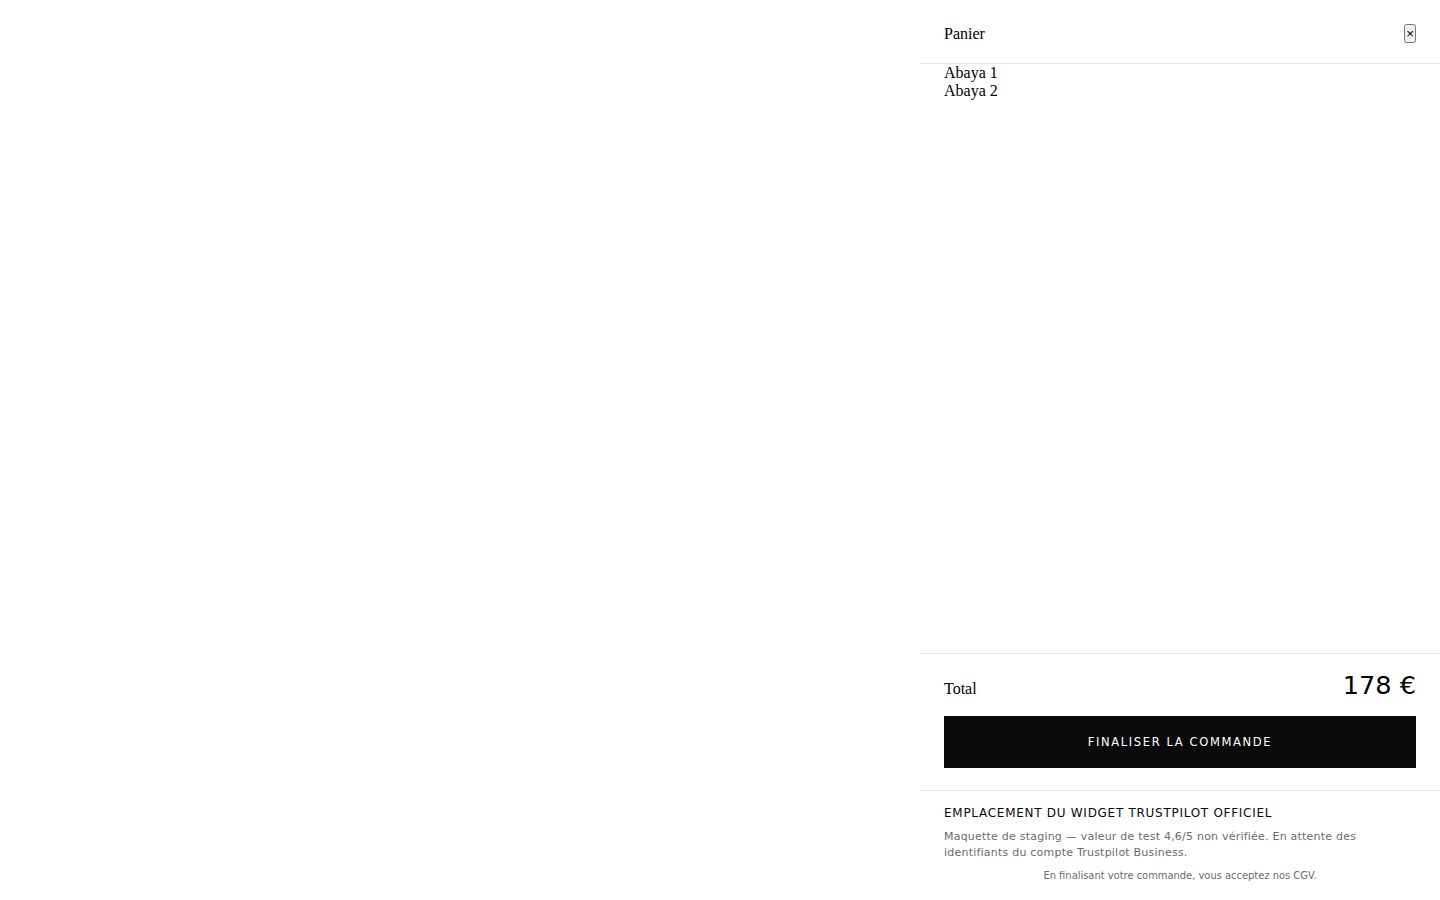
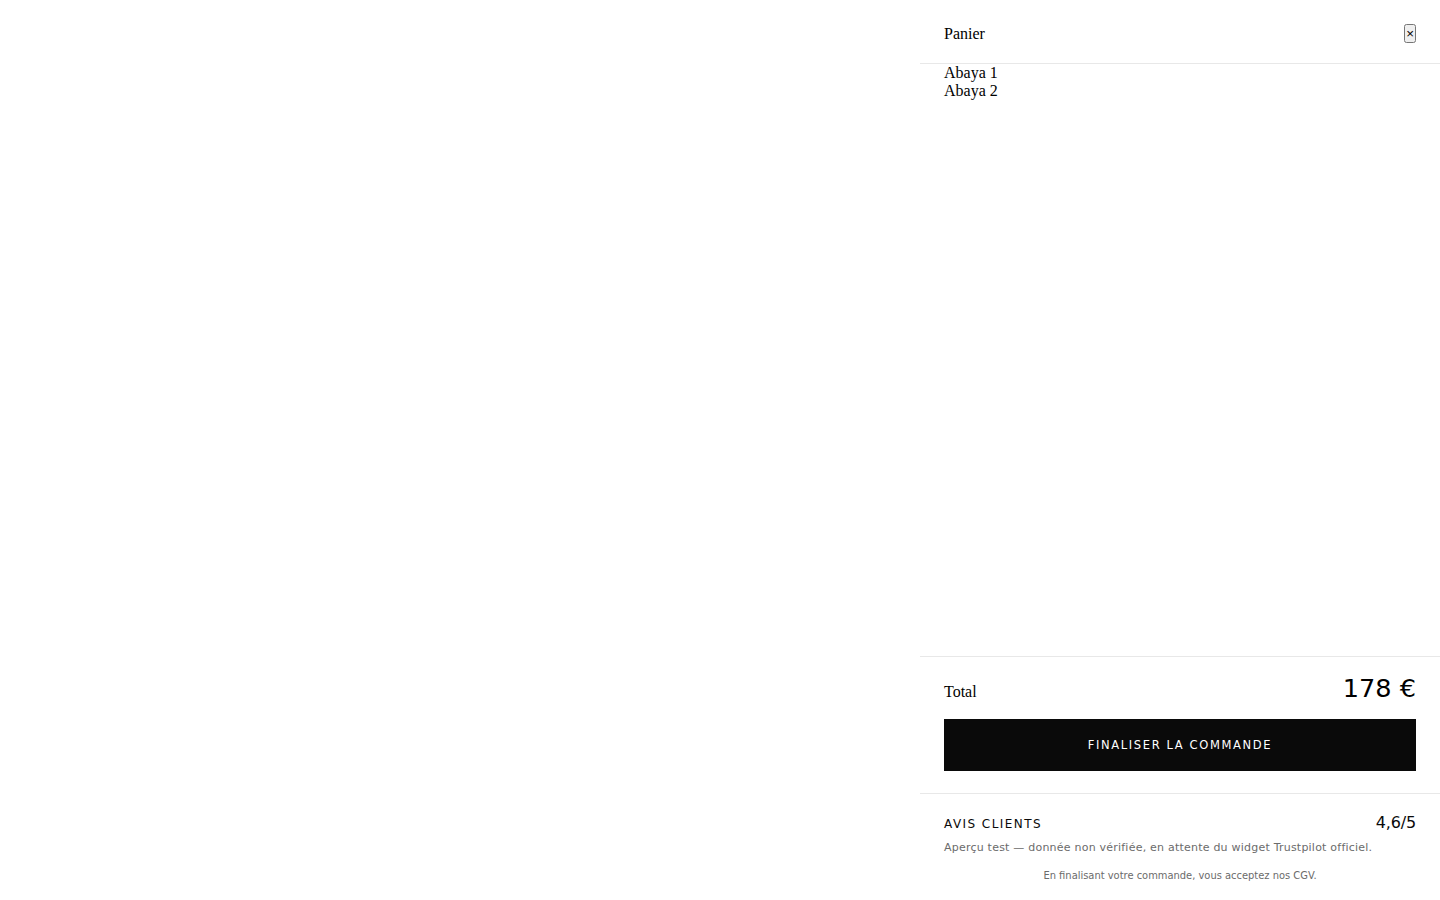
Maquette staging : bloc de réassurance visible avec la note 4,6/5
Le bloc de staging passait pour un chantier ("emplacement réservé").
Il devient un composant fini, affiché dans le bas du cart drawer sous
le bouton de paiement : libellé AVIS CLIENTS à gauche, 4,6/5 à droite,
mention "Aperçu test — donnée non vérifiée" dessous.

Identité Maison Ayla stricte : blanc, #0A0A0A, #6B6B6B, Jost, aucun
arrondi décoratif, aucune ombre. Toujours aucun logo, wordmark, étoile
ni vert Trustpilot reconstruits — le rendu de marque reste réservé à la
TrustBox officielle, conformément au critère d'acceptation n°1 du brief.

Le score reste piloté par le seul assign trustpilot_test_score du
snippet de configuration, et les deux verrous de publication sont
inchangés : le bloc ne peut pas s'afficher sur un thème publié.

Documenté en plus : le profil Trustpilot public de Maison Ayla existe,
et deux façons d'en extraire le businessunit-id en moins d'une minute.
Trustpilot n'est pas joignable depuis l'environnement d'exécution
(403 anti-robot), d'où l'impossibilité de relever le score réel ici.

60/60 contrôles Playwright rejoués après modification.

Claude-Session: https://claude.ai/code/session_01V2DRE9mqg9khsv4wi2sKrS

Changed region(s): [[0.6562, 0.7467, 1.0, 0.8711], [0.6562, 0.9022, 1.0, 0.9644]]

diff --git a/shopify/maison-ayla-cro-live/assets/ma-cro-trustpilot.js b/shopify/maison-ayla-cro-live/assets/ma-cro-trustpilot.js
@@ -73,26 +73,35 @@
       return block;
     }
 
-    /* Emplacement réservé de maquette : aucun logo, aucune étoile,
-       aucune couleur de marque, aucune note présentée comme réelle. */
-    block.dataset.maTpMode = 'placeholder';
-    block.classList.add('ma-cro-tp--placeholder');
-    block.setAttribute('aria-label', 'Emplacement réservé au widget Trustpilot officiel, maquette non publiée');
+    /* Maquette de staging : bloc de réassurance à l'identité Maison Ayla.
+       Aucun logo, aucun wordmark, aucune étoile, aucune couleur de marque
+       Trustpilot ne sont reconstruits — cette maquette valide le gabarit
+       et la hiérarchie, pas le rendu de marque. */
+    block.dataset.maTpMode = 'mock';
+    block.classList.add('ma-cro-tp--mock');
+    block.setAttribute('aria-label', 'Aperçu de maquette non publié, note de test non vérifiée');
 
     var slot = document.createElement('div');
-    slot.className = 'ma-cro-tp__widget ma-cro-tp__slot';
+    slot.className = 'ma-cro-tp__widget ma-cro-tp__mock';
 
-    var title = document.createElement('p');
-    title.className = 'ma-cro-tp__slot-title';
-    title.textContent = 'Emplacement du widget Trustpilot officiel';
-    slot.appendChild(title);
+    var row = document.createElement('div');
+    row.className = 'ma-cro-tp__mock-row';
+
+    var label = document.createElement('span');
+    label.className = 'ma-cro-tp__mock-label';
+    label.textContent = 'Avis clients';
+    row.appendChild(label);
+
+    var score = document.createElement('span');
+    score.className = 'ma-cro-tp__mock-score';
+    score.textContent = config.testScore || '';
+    row.appendChild(score);
+
+    slot.appendChild(row);
 
     var note = document.createElement('p');
     note.className = 'ma-cro-tp__note';
-    note.textContent =
-      'Maquette de staging — valeur de test ' +
-      (config.testScore || '') +
-      ' non vérifiée. En attente des identifiants du compte Trustpilot Business.';
+    note.textContent = 'Aperçu test — donnée non vérifiée, en attente du widget Trustpilot officiel.';
     slot.appendChild(note);
 
     block.appendChild(slot);

diff --git a/shopify/maison-ayla-cro-live/assets/ma-cro-dev-fixes.css b/shopify/maison-ayla-cro-live/assets/ma-cro-dev-fixes.css
@@ -102,8 +102,10 @@
   letter-spacing: .02em;
 }
 
-/* Emplacement réservé de maquette (staging, identifiants non fournis). */
-.ma-cro-tp__slot {
+/* Maquette de staging (identifiants officiels non encore fournis).
+   Habillage Maison Ayla strict : pas de vert, pas d'étoile, pas de
+   wordmark, pas d'arrondi décoratif, pas d'ombre. */
+.ma-cro-tp__mock {
   display: flex;
   flex-direction: column;
   justify-content: center;
@@ -111,14 +113,29 @@
   padding: 0;
 }
 
-.ma-cro-tp__slot-title {
-  margin: 0;
+.ma-cro-tp__mock-row {
+  display: flex;
+  align-items: baseline;
+  justify-content: space-between;
+  gap: 14px;
+}
+
+.ma-cro-tp__mock-label {
   color: #0A0A0A;
   font-size: 12px;
   font-weight: 500;
   line-height: 1.35;
-  letter-spacing: .06em;
+  letter-spacing: .12em;
   text-transform: uppercase;
+}
+
+.ma-cro-tp__mock-score {
+  flex: 0 0 auto;
+  color: #0A0A0A;
+  font-size: 16px;
+  font-weight: 500;
+  line-height: 1.2;
+  letter-spacing: -.01em;
 }
 
 .ma-cro-payment-icon {

diff --git a/shopify/maison-ayla-cro-live/LIVRAISON.md b/shopify/maison-ayla-cro-live/LIVRAISON.md
@@ -107,8 +107,13 @@ recommandations produits (upsell), consentement newsletter, moyens de paiement d
 | Identifiants | Thème | Rendu |
 |---|---|---|
 | fournis | quelconque | **TrustBox officielle** |
-| absents | non publié + `test_mode = true` | Emplacement réservé, étiqueté « valeur de test 4,6/5 non vérifiée » |
+| absents | non publié + `test_mode = true` | **Bloc de réassurance Maison Ayla affichant `4,6/5`**, sous-titré « Aperçu test — donnée non vérifiée » |
 | absents | publié (`role = main`) | **Rien du tout** |
+
+Le bloc de maquette est un composant fini, pas un chantier : libellé « AVIS CLIENTS »
+à gauche, score `4,6/5` à droite, mention de test dessous. Il respecte l'identité
+Maison Ayla (blanc, `#0A0A0A`, `#6B6B6B`, Jost, sans arrondi ni ombre) et ne contient
+**ni logo, ni wordmark, ni étoile, ni vert Trustpilot** — voir §8 pour la raison.
 
 ### Gestion de la note 4,6/5 (§5 du brief)
 
@@ -202,6 +207,40 @@ Trustpilot Business de Maison Ayla (Integrations → TrustBox) :
 Aucune de ces valeurs n'a été devinée, et aucun asset Trustpilot n'a été téléchargé
 depuis une source non officielle.
 
+### Le profil existe — l'identifiant est à portée de main
+
+Vérification faite : **Maison Ayla dispose bien d'un profil Trustpilot public**
+(`fr.trustpilot.com/review/maison-ayla.com`, environ 4 avis indexés). Le TrustScore réel
+et le `businessunit-id` n'ont pas pu être lus depuis l'environnement d'exécution :
+Trustpilot renvoie `403` au proxy réseau comme à l'outil de récupération de pages
+(protection anti-robot). C'est une limite d'environnement, pas un obstacle juridique.
+
+Deux façons d'obtenir le `businessunit-id` en moins d'une minute :
+
+1. **Compte Business** — Trustpilot Business → Integrations → TrustBox : le code HTML
+   fourni contient `data-businessunit-id` et `data-template-id`. C'est la voie officielle,
+   et la seule qui donne aussi le bon `template-id`.
+2. **Page publique** — ouvrir `fr.trustpilot.com/review/maison-ayla.com`, afficher le code
+   source, rechercher `businessUnitId` : c'est l'identifiant hexadécimal de 24 caractères.
+
+### Point de vigilance avant publication
+
+Le profil compte peu d'avis. Le §4 du brief interdit explicitement de « mettre en ligne le
+score 4,6/5 si le score officiel affiché par Trustpilot est différent ». La note réelle
+doit donc être relevée sur le profil **avant** toute bascule en production. Si elle diffère
+de 4,6, c'est la note officielle qui s'affiche — le widget officiel s'en charge seul, il
+n'y a rien à ajuster côté thème.
+
+### Pourquoi le logo et les étoiles ne sont pas dessinés
+
+Le bloc de maquette affiche bien la note demandée, mais sans reconstruire l'identité
+Trustpilot. Ce n'est pas un choix d'implémentation : c'est la condition de recevabilité
+inscrite au brief — « Toute livraison contenant un logo Trustpilot recréé, un SVG maison
+ou une note présentée comme réelle sans source officielle sera refusée ». Redessiner le
+logo ferait échouer la livraison au titre du critère d'acceptation n° 1, celui-là même qui
+a motivé la reprise. La maquette valide donc le gabarit, la position et la hiérarchie ; le
+rendu de marque arrive avec l'identifiant, sans autre modification de code.
+
 ### Activation, une fois les accès obtenus
 
 Une seule modification, dans `snippets/ma-cro-trustpilot.liquid` :
@@ -257,6 +296,18 @@ Puis vérifier que la note affichée est bien celle du widget officiel.
 ---
 
 ## 11. Changelog
+
+### 1.1.0 — 2026-07-24
+
+**Modifié**
+- Maquette de staging : l'emplacement réservé devient un bloc de réassurance fini,
+  affichant `4,6/5` en regard du libellé « AVIS CLIENTS », avec la mention « Aperçu test —
+  donnée non vérifiée ». Toujours aucun logo, wordmark, étoile ni vert Trustpilot.
+- Score piloté par `config.testScore`, donc toujours issu du seul `assign` du snippet.
+
+**Vérifié**
+- Existence confirmée d'un profil Trustpilot public pour maison-ayla.com.
+- 60/60 contrôles rejoués après modification.
 
 ### 1.0.0 — 2026-07-24
 
